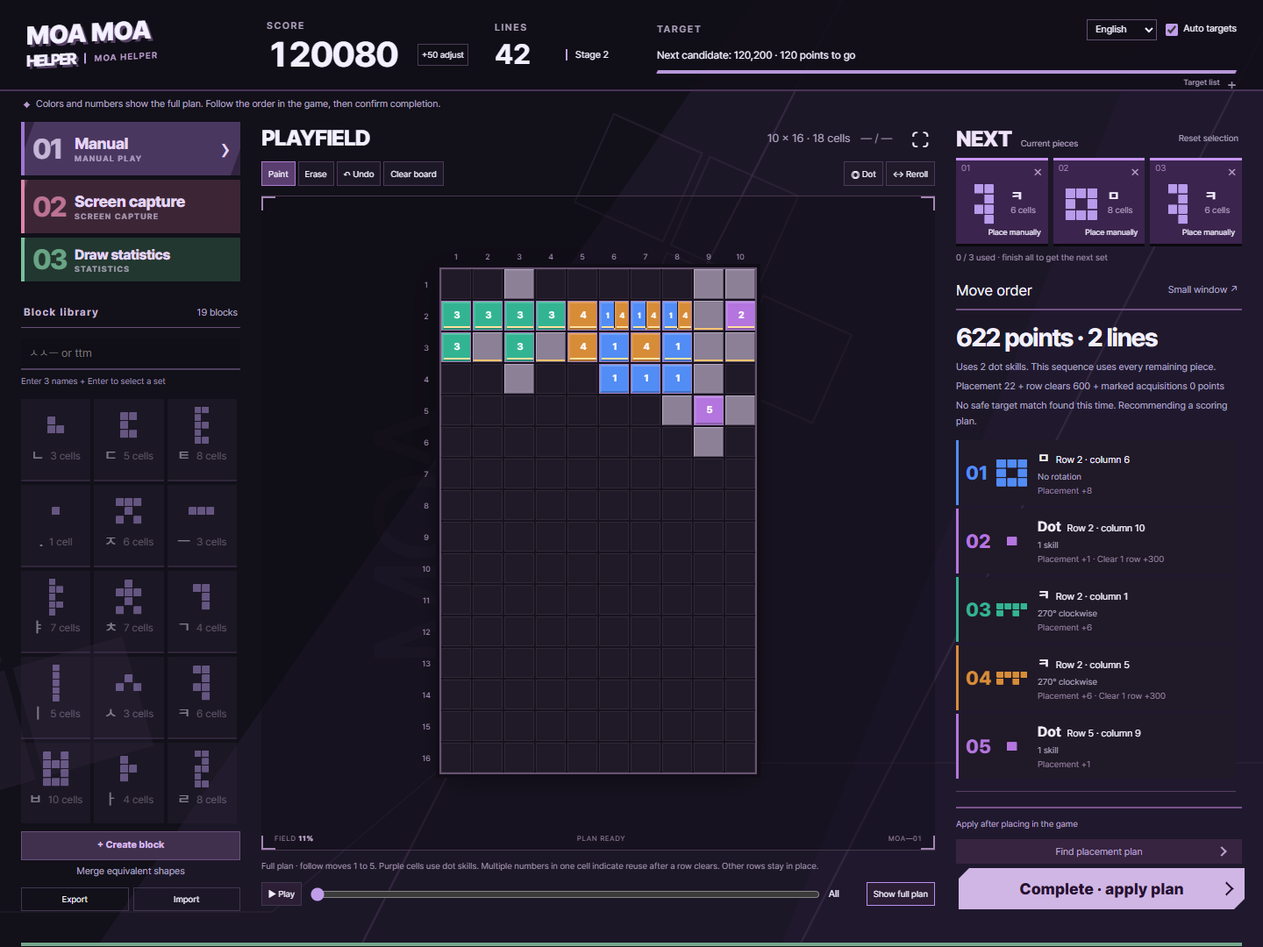
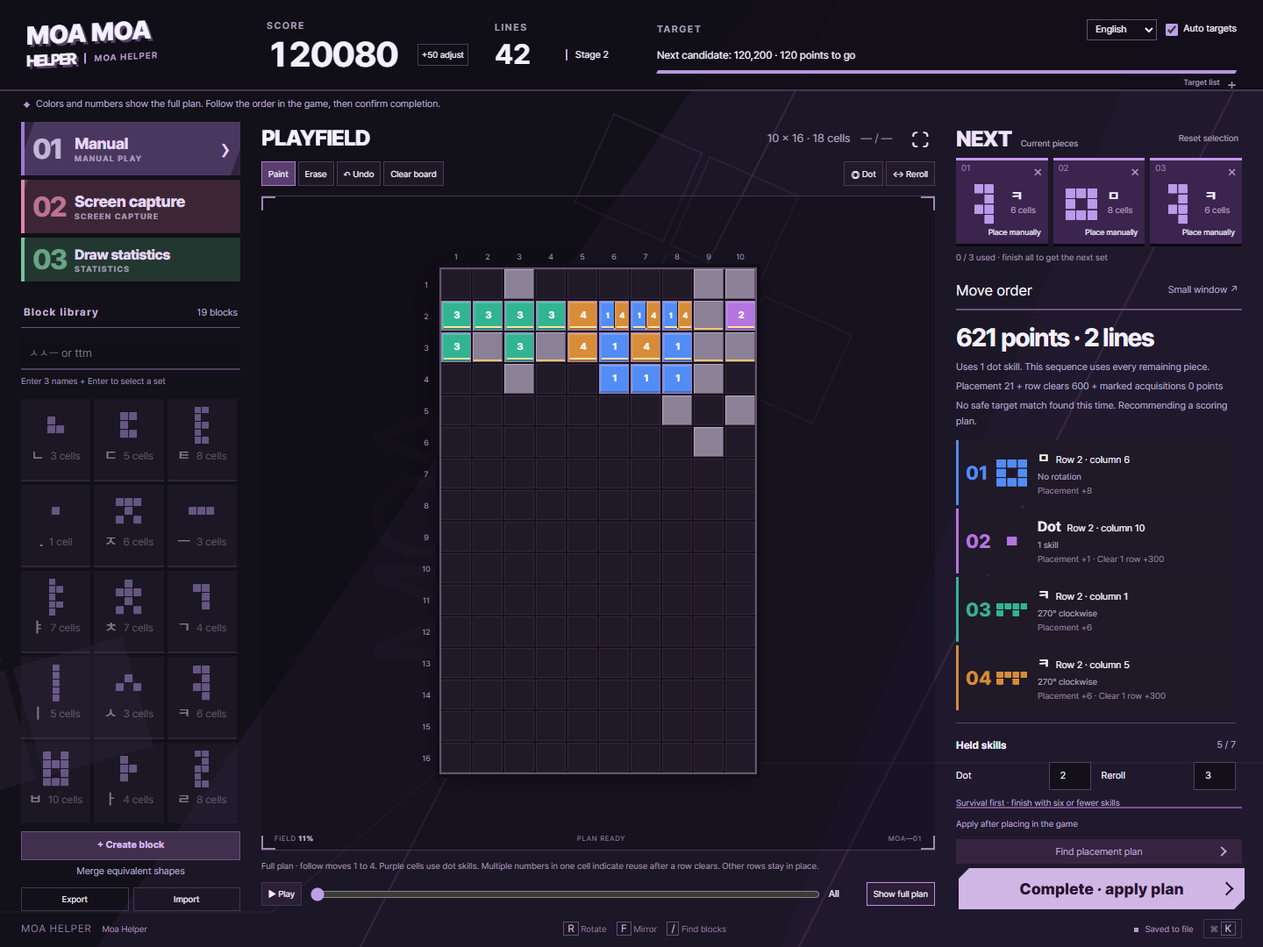
Separate statistics view and correct blue piece recognition

diff --git a/public/index.html b/public/index.html
@@ -24,7 +24,7 @@
 
 <p class="statistics-note error" hidden="" id="stage-server-warning" role="status">능력 등장 횟수와 통계·알고리즘 설정을 파일에 저장하려면 실행 중인 서버를 다시 시작한 뒤 새로고침하세요. 그전의 변경은 브라우저에 임시 보관합니다.</p>
 <div class="session-status"><i aria-hidden="true" class="status-light"></i><div aria-live="polite" class="message" id="message" role="status">저장한 블록을 불러오고 있습니다.</div></div>
-<div class="workbench"><div class="sidebar"><div class="mode-menu"><nav aria-label="입력 방식" class="mode-tabs"><button aria-label="수동" aria-pressed="true" class="selected" id="tab-manual"><span aria-hidden="true" class="menu-index">01</span><span class="menu-copy"><strong>수동</strong><small aria-hidden="true">MANUAL PLAY</small></span><span aria-hidden="true" class="menu-arrow">›</span></button><button aria-label="화면공유" aria-pressed="false" id="tab-capture"><span aria-hidden="true" class="menu-index">02</span><span class="menu-copy"><strong>화면공유</strong><small aria-hidden="true">SCREEN CAPTURE</small></span><span aria-hidden="true" class="menu-arrow">›</span></button></nav><button aria-label="출현 통계" id="open-statistics"><span aria-hidden="true" class="menu-index">03</span><span class="menu-copy"><strong>출현 통계</strong><small aria-hidden="true">STATISTICS</small></span><span aria-hidden="true" class="menu-arrow">›</span></button></div><section aria-labelledby="library-title" class="library"><div class="section-head"><h2 id="library-title">블록 보관함</h2><span id="block-count">0개</span></div><label class="search-label">블록 찾기<input aria-describedby="search-help" id="search-blocks" placeholder="ㅅㅅㅡ 또는 ttm" type="search"/><small id="search-help">이름 3개 + Enter로 한 번에 선택</small></label><div class="library-list" id="library-list"></div><div class="empty" id="library-empty"><div aria-hidden="true" class="empty-dots"><i></i><i></i><i></i><i></i></div><strong>한 번 만들면 계속 쓸 수 있어요.</strong><p>칸을 찍어 모양을 저장한 뒤<br/>목록에서 게임에 나온 블록을 고르세요.</p><button id="empty-create">첫 블록 만들기</button><button class="text-button" id="add-examples">기본 블록 모두 추가</button></div><button class="primary" id="new-block">+ 블록 만들기</button><button class="text-button" id="merge-blocks">회전·반전 중복 정리</button><div class="library-footer"><button id="export-blocks">내보내기</button><label class="file-button">불러오기<input accept=".json,application/json" id="import-blocks" type="file"/></label></div></section></div>
+<div class="workbench"><div class="sidebar"><div class="mode-menu"><nav aria-label="입력 방식" class="mode-tabs"><button aria-label="수동" aria-pressed="true" class="selected" id="tab-manual"><span aria-hidden="true" class="menu-index">01</span><span class="menu-copy"><strong>수동</strong><small aria-hidden="true">MANUAL PLAY</small></span><span aria-hidden="true" class="menu-arrow">›</span></button><button aria-label="화면공유" aria-pressed="false" id="tab-capture"><span aria-hidden="true" class="menu-index">02</span><span class="menu-copy"><strong>화면공유</strong><small aria-hidden="true">SCREEN CAPTURE</small></span><span aria-hidden="true" class="menu-arrow">›</span></button></nav><button aria-label="출현 통계" aria-pressed="false" aria-controls="statistics-screen" id="open-statistics"><span aria-hidden="true" class="menu-index">03</span><span class="menu-copy"><strong>출현 통계</strong><small aria-hidden="true">STATISTICS</small></span><span aria-hidden="true" class="menu-arrow">›</span></button></div><section aria-labelledby="library-title" class="library"><div class="section-head"><h2 id="library-title">블록 보관함</h2><span id="block-count">0개</span></div><label class="search-label">블록 찾기<input aria-describedby="search-help" id="search-blocks" placeholder="ㅅㅅㅡ 또는 ttm" type="search"/><small id="search-help">이름 3개 + Enter로 한 번에 선택</small></label><div class="library-list" id="library-list"></div><div class="empty" id="library-empty"><div aria-hidden="true" class="empty-dots"><i></i><i></i><i></i><i></i></div><strong>한 번 만들면 계속 쓸 수 있어요.</strong><p>칸을 찍어 모양을 저장한 뒤<br/>목록에서 게임에 나온 블록을 고르세요.</p><button id="empty-create">첫 블록 만들기</button><button class="text-button" id="add-examples">기본 블록 모두 추가</button></div><button class="primary" id="new-block">+ 블록 만들기</button><button class="text-button" id="merge-blocks">회전·반전 중복 정리</button><div class="library-footer"><button id="export-blocks">내보내기</button><label class="file-button">불러오기<input accept=".json,application/json" id="import-blocks" type="file"/></label></div></section></div>
 
 <div class="center-stage">
 <section aria-labelledby="capture-title" class="capture-panel" hidden="" id="capture-panel">
@@ -56,17 +56,17 @@
 </div>
 <div class="action-dock"><span class="dock-label" id="dock-label">세 조각을 선택하세요</span><button class="primary wide" disabled="" id="solve">배치 추천 찾기</button><button class="primary wide" hidden="" id="finish-target">목표 점수까지 반영</button><button class="primary wide" hidden="" id="complete-plan">완료</button></div>
 </aside>
-</div>
-<section aria-labelledby="statistics-title" class="draw-statistics">
-<details id="statistics-panel" open="">
-<summary><span aria-hidden="true" class="section-index">STATS</span><span id="statistics-title">블록 출현 통계</span><span id="statistics-total">일반 0회 · 바꾸기 0회 · 합계 0회</span></summary>
+<section aria-labelledby="statistics-title" class="draw-statistics" id="statistics-screen" hidden="">
+<div id="statistics-panel">
+<header class="statistics-heading"><div><span aria-hidden="true" class="section-index">STATS</span><h2 id="statistics-title" tabindex="-1">블록 출현 통계</h2></div><button id="statistics-back" type="button">← 플레이로 돌아가기</button></header><p id="statistics-total" role="status">일반 0회 · 바꾸기 0회 · 합계 0회</p>
 <p class="statistics-note" id="statistics-empty">선택한 범위에 아직 기록이 없습니다. 확인한 조각부터 자동 저장합니다.</p>
-<div class="statistics-tools"><label>확률 범위<select id="statistics-stage"><option value="all">전체 · 모든 단계 포함</option><option value="1">1단계 · 0~30줄</option><option value="2">2단계 · 31~60줄</option><option value="3">3단계 · 61~100줄</option><option value="4">4단계 · 101~150줄</option><option value="5">5단계 · 151줄 이상</option><option value="unknown">단계 미상 · 기존 기록</option></select></label><label>통계 검색<input autocomplete="off" id="statistics-search" placeholder="블록 이름 검색" type="search"/></label><label>정렬<select id="statistics-sort"><option value="total">전체 출현율 높은 순</option><option value="normal">일반 출현율 높은 순</option><option value="reroll">바꾸기 출현율 높은 순</option><option value="name">이름순</option></select></label><button id="statistics-reset" type="button">통계 전체 초기화</button></div><div aria-label="선택한 범위의 블록별 출현 비율" class="statistics-chart" id="statistics-chart" role="group"></div>
+<div class="statistics-tools"><label>확률 범위<select id="statistics-stage"><option value="all">전체 · 모든 단계 포함</option><option value="1">1단계 · 0~30줄</option><option value="2">2단계 · 31~60줄</option><option value="3">3단계 · 61~100줄</option><option value="4">4단계 · 101~150줄</option><option value="5">5단계 · 151줄 이상</option><option value="unknown">단계 미상 · 기존 기록</option></select></label><label>통계 검색<input autocomplete="off" id="statistics-search" placeholder="블록 이름 검색" type="search"/></label><label>정렬<select id="statistics-sort"><option value="total">전체 출현율 높은 순</option><option value="normal">일반 출현율 높은 순</option><option value="reroll">바꾸기 출현율 높은 순</option><option value="name">이름순</option></select></label><button id="statistics-undo" type="button" disabled="">↶ 되돌리기</button><button id="statistics-reset" type="button">통계 전체 초기화</button></div><div aria-label="선택한 범위의 블록별 출현 비율" class="statistics-chart" id="statistics-chart" role="group"></div>
 <p class="statistics-note" id="statistics-scope-note"></p>
 <p class="statistics-note" hidden="" id="statistics-no-match">일치하는 블록이 없습니다.</p>
 <table class="statistics-table"><caption class="sr-only">일반 배치 조각과 바꾸기 결과의 누적 횟수 및 관측 비율</caption><thead><tr><th scope="col">블록</th><th scope="col">일반</th><th scope="col">바꾸기</th><th scope="col">전체</th></tr></thead><tbody id="statistics-rows"></tbody></table>
-<details class="statistics-guide"><summary>통계 기록·수정 안내</summary><p class="statistics-note">화면에서 인식한 조각은 실제 배치를 반영한 뒤 한 번씩 기록합니다. 수동 선택은 첫 추천·직접 배치 때, 수동 바꾸기 입력은 결과 반영 때 기록합니다. 예시 화면은 제외하며, 되돌리면 통계도 복구됩니다.</p><p class="statistics-note">비율 = 해당 블록 횟수 ÷ 해당 열 전체 횟수. 누적 관측 비율이며 실제 확률을 보장하지 않습니다. 화면에서 이름을 구분할 수 없는 모양은 미분류로 집계합니다.</p><p class="statistics-note">일반·바꾸기 누적 횟수를 표에서 직접 고친 뒤 Enter를 누르거나 다른 칸으로 이동하면 저장합니다. 편집을 마치면 정렬이 갱신되며, 검색해도 비율은 선택한 범위의 전체 기록 기준입니다.</p><p class="statistics-note">단계별 횟수 수정은 전체 합계에도 반영됩니다. 전체 횟수는 단계별 합계보다 작게 줄일 수 없습니다. 기존 기록은 단계 미상으로 보존합니다.</p></details></details>
+<details class="statistics-guide"><summary>통계 기록·수정 안내</summary><p class="statistics-note">화면에서 인식한 조각은 실제 배치를 반영한 뒤 한 번씩 기록합니다. 수동 선택은 첫 추천·직접 배치 때, 수동 바꾸기 입력은 결과 반영 때 기록합니다. 예시 화면은 제외하며, 되돌리면 통계도 복구됩니다.</p><p class="statistics-note">비율 = 해당 블록 횟수 ÷ 해당 열 전체 횟수. 누적 관측 비율이며 실제 확률을 보장하지 않습니다. 화면에서 이름을 구분할 수 없는 모양은 미분류로 집계합니다.</p><p class="statistics-note">일반·바꾸기 누적 횟수를 표에서 직접 고친 뒤 Enter를 누르거나 다른 칸으로 이동하면 저장합니다. 편집을 마치면 정렬이 갱신되며, 검색해도 비율은 선택한 범위의 전체 기록 기준입니다.</p><p class="statistics-note">단계별 횟수 수정은 전체 합계에도 반영됩니다. 전체 횟수는 단계별 합계보다 작게 줄일 수 없습니다. 기존 기록은 단계 미상으로 보존합니다.</p></details></div>
 </section>
+</div>
 </main>
 <footer><span class="footer-brand">MOA HELPER <b>모아모아 도우미</b></span><span class="footer-shortcuts"><kbd>R</kbd> 회전 <kbd>F</kbd> 반전 <kbd>/</kbd> 블록 찾기</span><div class="footer-status"><span id="save-status" role="status">저장 파일 연결 중</span><button hidden="" id="retry-save">저장 재시도</button><button aria-label="빠른 이동" id="open-command" title="빠른 이동 Ctrl+K">⌘ <kbd>K</kbd></button></div></footer>
 <details class="project-notice"><summary>이벤트 · 프로젝트 안내</summary><p>메이플스토리 한글 모아모아 이벤트: 2026년 10월 1일 오전 10시 ~ 2026년 10월 14일 오후 11시 59분.</p><p>메이플스토리의 상표, 로고, 게임 이미지 등 관련 권리는 넥슨 및 각 권리자에게 있습니다. 이 프로젝트는 개인·학습용 비공식 도우미이며, 넥슨이 제작하거나 승인한 프로그램이 아닙니다.</p></details>

diff --git a/public/app.js b/public/app.js
@@ -21,7 +21,7 @@ let worker, searchTimer, generation = 0, result = null, preview = -1, busy = fal
 let targetPaused=false;
 let mode = 'paint', placement = null, hover = null, drag = null, dotDrag = null;
 let editorId = null, dots = new Set(), history = [], pipWindow = null;
-let inputMode='manual';
+let inputMode='manual',activeScreen='manual';
 let lastMessage=null,editorError=null;
 const colors = getComputedStyle(document.documentElement);
 const color = name => colors.getPropertyValue(`--color-${name}`).trim();
@@ -45,13 +45,32 @@ const capture=new ScreenCapture({
     remember();state=next;placement=null;hover=null;mode='paint';changed();solveBoard();
   }
 });
-const studio=new StudioUI({manual:()=>switchInput('manual'),capture:()=>switchInput('capture'),preview:index=>{if(!result?.moves.length)return;preview=index<0?-2:index;placement=null;hover=null;renderBoard();renderRecommendations();renderTray();renderPip();}});
-function switchInput(next){
-  if(!loaded)return;studio.stopPlayback();inputMode=next;const sharing=next==='capture';
-  document.body.classList.toggle('capture-mode',sharing);$('capture-panel').hidden=!sharing;
-  for(const id of ['manual','capture']){$(`tab-${id}`).classList.toggle('selected',id===next);$(`tab-${id}`).setAttribute('aria-pressed',String(id===next));}
-  capture.setActive(sharing);render();
+const studio=new StudioUI({manual:()=>switchInput('manual'),capture:()=>switchInput('capture'),statistics:()=>switchInput('statistics'),resume:()=>switchInput(inputMode),preview:index=>{if(!result?.moves.length)return;preview=index<0?-2:index;placement=null;hover=null;renderBoard();renderRecommendations();renderTray();renderPip();}});
+function switchInput(next,{navigate=true,focus=true}={}){
+  if(!loaded||!['manual','capture','statistics'].includes(next))return;
+  studio.stopPlayback();studio.clearMotion();
+  if(next==='statistics'&&document.body.classList.contains('focus-mode'))studio.focus();
+  const statistics=next==='statistics',changedScreen=activeScreen!==next;activeScreen=next;
+  if(!statistics){
+    inputMode=next;const sharing=next==='capture';
+    document.body.classList.toggle('capture-mode',sharing);$('capture-panel').hidden=!sharing;
+    capture.setActive(sharing);
+  }
+  document.body.classList.toggle('statistics-mode',statistics);
+  document.querySelector('.center-stage').hidden=statistics;document.querySelector('.recommendations').hidden=statistics;
+  document.querySelector('.library').hidden=statistics;$('statistics-screen').hidden=!statistics;
+  for(const [screen,id]of [['manual','tab-manual'],['capture','tab-capture'],['statistics','open-statistics']]){
+    const selected=screen===next,node=$(id);node.classList.toggle('selected',selected);node.setAttribute('aria-pressed',String(selected));
+    if(selected)node.setAttribute('aria-current','page');else node.removeAttribute('aria-current');
+  }
+  if(navigate&&location.hash!==`#${next}`)window.history.pushState(null,'',`#${next}`);
+  render();
+  if(changedScreen){window.scrollTo({top:0,behavior:'instant'});if(focus)(statistics?$('statistics-title'):$(next==='capture'?'tab-capture':'tab-manual')).focus({preventScroll:true});}
 }
+window.addEventListener('popstate',()=>switchInput(location.hash.slice(1)||'manual',{navigate:false}));
+$('statistics-back').onclick=()=>switchInput(inputMode);
+$('statistics-undo').onclick=()=>$('undo').click();
+document.querySelectorAll('.brand,.skip-link').forEach(link=>link.addEventListener('click',event=>{if(activeScreen==='statistics'){event.preventDefault();switchInput(inputMode);$('board-grid').querySelector('button')?.focus();}}));
 function message(text, error = false) { lastMessage={text,error};refreshMessage(); }
 function refreshMessage(){if(!lastMessage)return;$('message').textContent=t(typeof lastMessage.text==='function'?lastMessage.text():lastMessage.text);$('message').classList.toggle('error',lastMessage.error);}
 function el(tag, text, className) { const node=document.createElement(tag); if(text!==undefined)node.textContent=text; if(className)node.className=className; return node; }
@@ -349,7 +368,7 @@ function renderRecommendations() {
 }
 function render() {
   if(!state)return;
-  renderLibrary();renderTray();renderBoard();renderRecommendations();renderStatistics();renderTargetStatus();$('undo').disabled=!history.length;
+  renderLibrary();renderTray();renderBoard();renderRecommendations();renderStatistics();renderTargetStatus();$('undo').disabled=!history.length;$('statistics-undo').disabled=!history.length;
   if(document.activeElement!==$('cleared-lines'))$('cleared-lines').value=state.clearedLines??'';
   if(document.activeElement!==$('skill-spawn-remaining'))$('skill-spawn-remaining').value=state.skillSpawnRemaining??'';
   const stage=stageForLines(state.clearedLines);$('current-stage').textContent=stage===null?t('단계 미상'):t`${stage}단계`;
@@ -608,6 +627,7 @@ $('import-blocks').onchange=async event=>{
 };
 document.addEventListener('keydown',event=>{
   if(document.querySelector('dialog[open]')||event.target.matches('input,select,textarea')||event.ctrlKey||event.metaKey)return;
+  if(activeScreen==='statistics'){if(event.key==='Escape')switchInput(inputMode);return;}
   if(event.key==='Escape')setMode('paint');if(event.key.toLowerCase()==='r')transformPlacement();if(event.key.toLowerCase()==='f')transformPlacement(true);
 });
 window.addEventListener('beforeunload',event=>{if(revision!==savedRevision){event.preventDefault();event.returnValue='';}});
@@ -629,6 +649,7 @@ async function boot() {
     const upgradedStrategy=priorOptions.strategyVersion!==3||priorOptions.solverProfile!=='fast'||priorOptions.timeLimit!==850;
     state.options={solverProfile:'fast',rotate:priorOptions.rotate!==false,reflect:priorOptions.reflect!==false,gravity:false,timeLimit:850,strategyVersion:3};
     loaded=true;$('save-status').textContent=t('파일에 저장됨');render();document.querySelector('main').inert=false;$('new-block').disabled=false;
+    switchInput(['manual','capture','statistics'].includes(location.hash.slice(1))?location.hash.slice(1):'manual',{navigate:false,focus:false});
     $('stage-server-warning').hidden=stagePersistenceSupported;
     if(!stagePersistenceSupported){$('save-status').textContent=t('서버 재시작 필요');$('save-status').classList.add('error');if(draft)dirty();}
     if(correctedGravity){dirty();message(()=>(t('줄 제거 후 나머지 칸을 유지하도록 설정을 바로잡았습니다. 이미 어긋난 보드는 화면공유 탭에서 현재 게임 이미지를 붙여넣어 다시 맞춰 주세요.')));}

diff --git a/public/vision.js b/public/vision.js
@@ -125,7 +125,7 @@ export function readBoard(image,rect,cols=10,rows=16,sensitivity=1) {
   const confidence=confidences.reduce((a,b)=>a+b,0)/confidences.length;
   return {board,confidence,colors,uncertain:confidences.filter(v=>v<.6).length};
 }
-export function readPiece(image,rect) {
+export function readPiece(image,rect,{pitch:expectedPitch}={}) {
   if(!validRect(rect,image)) return {cells:[],status:'unknown',confidence:0,reason:'조각 영역을 다시 지정하세요.'};
   const w=Math.floor(rect.w),h=Math.floor(rect.h), mask=new Uint8Array(w*h);
   let white=0,teal=0;
@@ -151,22 +151,27 @@ export function readPiece(image,rect) {
     if(queue.length>=3) components.push({x:minX,y:minY,w:maxX-minX+1,h:maxY-minY+1,area:queue.length});
   }
   if(!components.length) return {cells:[],status:white/(w*h)>.6?'empty':'unknown',confidence:white/(w*h)>.6?.85:0};
-  const tiles=components.filter(c=>c.w>=3&&c.h>=3&&c.w/c.h>.65&&c.w/c.h<1.5&&c.w<w*.95&&c.h<h*.95);
+  const tiles=components.filter(c=>c.w>=2&&c.h>=2&&c.w/c.h>=.6&&c.w/c.h<=1.6&&c.w<w*.95&&c.h<h*.95);
   if(!tiles.length) return {cells:[],status:'unknown',confidence:0,reason:'블록 경계가 흐립니다. 조각 영역을 조정하거나 직접 수정하세요.'};
   const sizes=tiles.map(c=>(c.w+c.h)/2).sort((a,b)=>a-b),size=sizes[Math.floor(sizes.length/2)];
   const actual=tiles.filter(c=>Math.abs(c.w-size)<size*.45&&Math.abs(c.h-size)<size*.45);
   const minX=Math.min(...actual.map(c=>c.x)),minY=Math.min(...actual.map(c=>c.y));
-  let pitch=size+1;
+  // The saturated interior of a blue tile can be half its actual width. It is
+  // not the grid pitch. Use the board's scale, then refine from tile distances.
+  // Without that scale, only infer adjacency when the nearest gap is plausible;
+  // truly disconnected shapes must retain their empty cells.
+  const scaled=Number.isFinite(expectedPitch)&&expectedPitch>=3;
+  let pitch=scaled?expectedPitch:size+1;
   const gaps=[];
   for(const a of actual) for(const b of actual) {
     if(Math.abs(a.y-b.y)<size*.4&&b.x>a.x+size*.7) gaps.push(b.x-a.x);
     if(Math.abs(a.x-b.x)<size*.4&&b.y>a.y+size*.7) gaps.push(b.y-a.y);
   }
-  // A random shape can have gaps with no adjacent tiles. Do not compress a
-  // two-cell gap into one cell just because it is the shortest observed gap.
   if(gaps.length) {
-    const estimates=gaps.map(gap=>gap/Math.max(1,Math.round(gap/(size+1)))).sort((a,b)=>a-b);
-    pitch=estimates[Math.floor(estimates.length/2)];
+    const nearest=Math.min(...gaps);
+    if(!scaled&&nearest<=size*1.75+1)pitch=nearest;
+    const estimates=gaps.map(gap=>gap/Math.max(1,Math.round(gap/pitch))).filter(value=>!scaled||Math.abs(value-expectedPitch)<=expectedPitch*.2).sort((a,b)=>a-b);
+    if(estimates.length)pitch=estimates[Math.floor(estimates.length/2)];
   }
   const cells=actual.map(c=>[Math.round((c.x-minX)/pitch),Math.round((c.y-minY)/pitch)]);
   const unique=[...new Map(cells.map(c=>[c.join(','),c])).values()];
@@ -180,6 +185,9 @@ export function recognize(image,calibration,settings={}) {
   const {cols=10,rows=16,sensitivity=1}=settings;
   const result=readBoard(image,calibration.board,cols,rows,sensitivity);
   if(result.error) return result;
-  const pieces=calibration.slots.map((rect,id)=>({id,...readPiece(image,rect)}));
+  // Miniature cells are 8px apart for each 26px game-board cell. A manual
+  // region changes the crop only; it does not change this shared image scale.
+  const pitch=calibration.board.w/cols*8/26;
+  const pieces=calibration.slots.map((rect,id)=>({id,...readPiece(image,rect,{pitch})}));
   return {...result,pieces,signature:JSON.stringify([result.board,pieces.map(p=>[p.status,p.cells])]),safe:result.confidence>.85&&result.uncertain===0&&pieces.every(p=>p.status==='ready'||p.status==='used')};
 }

diff --git a/public/manual.css b/public/manual.css
@@ -34,3 +34,8 @@ dialog{position:fixed;inset:0;margin:auto;width:min(470px,calc(100% - 28px));max
 html:lang(en) .menu-copy strong{font-size:18px}html:lang(en) #open-statistics .menu-copy strong{font-size:16px}html:lang(en) .brand-top{font-size:29px;letter-spacing:-.5px}html:lang(en) .brand-bottom{font-size:18px}html:lang(en) .target-list-details>summary{width:auto;white-space:nowrap}html:lang(en) .board-toolbar{flex-wrap:wrap}html:lang(en) .capture-actions>.wide{white-space:normal}html:lang(en) .statistics-tools label,html:lang(en) .dimensions label{min-width:0}html:lang(en) .statistics-table td strong{white-space:nowrap}
 @media(max-width:1190px){html:lang(en) .menu-copy strong{font-size:16px}html:lang(en) #open-statistics .menu-copy strong{font-size:14px}}
 @media(max-width:680px){html:lang(en) .menu-copy strong{font-size:14px}html:lang(en) #open-statistics .menu-copy strong{font-size:12px}html:lang(en) .brand-top{font-size:25px}html:lang(en) .menu-copy small{font-size:7px}html:lang(en) .target-module>strong{white-space:normal}html:lang(en) .ability-tracking input{font-size:9px}html:lang(en) .tray-heading h3{flex-wrap:wrap}}
+
+/* Statistics is a separate destination; the playfield keeps its live state. */
+.statistics-mode .workbench{height:auto;min-height:calc(100dvh - 176px);align-items:start}.statistics-mode .sidebar{position:sticky;top:16px}.statistics-mode .center-stage,.statistics-mode .recommendations,.statistics-mode .library{display:none}.draw-statistics{grid-column:2/-1;margin:0;min-width:0}.statistics-heading{display:flex;align-items:center;justify-content:space-between;gap:20px;margin-bottom:12px}.statistics-heading>div{display:flex;align-items:center;gap:16px}.statistics-heading h2{font-size:25px;line-height:1.2;color:#c8e7d6}.statistics-heading button{min-height:38px;white-space:nowrap}#statistics-total{margin-bottom:22px}.statistics-mode .statistics-tools{grid-template-columns:repeat(3,minmax(0,1fr)) auto auto}#statistics-undo{white-space:nowrap}
+@media(max-width:980px){.statistics-mode .workbench{grid-template-columns:180px minmax(0,1fr)}.statistics-mode .statistics-tools{grid-template-columns:1fr 1fr}.statistics-heading{align-items:flex-start;flex-wrap:wrap}.statistics-heading>div{flex-wrap:wrap;gap:6px 12px}}
+@media(max-width:680px){.statistics-mode .sidebar{position:static}.statistics-mode .draw-statistics{margin:0;padding:20px 12px}.statistics-mode .workbench{min-height:0;align-items:stretch}.statistics-heading h2{font-size:22px}.statistics-heading{gap:12px}.statistics-mode .statistics-tools{grid-template-columns:1fr 1fr}.statistics-mode .statistics-tools>label:first-child{grid-column:1/-1}.statistics-mode .statistics-table{table-layout:fixed}.statistics-mode .statistics-table th:first-child{width:24%}.statistics-mode .statistics-table td{overflow-wrap:anywhere}}

diff --git a/public/studio.js b/public/studio.js
@@ -19,7 +19,7 @@ export class StudioUI {
     $('plan-scrubber').oninput=()=>{this.stopPlayback();actions.preview(+$('plan-scrubber').value-1);};
     $('open-command').onclick=()=>this.command();$('close-command').onclick=()=>$('command-dialog').close();
     $('command-dialog').addEventListener('click',event=>{if(event.target===$('command-dialog')){const r=event.target.getBoundingClientRect();if(event.clientX<r.left||event.clientX>r.right||event.clientY<r.top||event.clientY>r.bottom)event.target.close();}});
-    const commands=[[t('블록 이름 입력'),'/',()=>this.search()],[t('현재 공유 화면 인식'),'',()=>{if(!$('capture-read').disabled){actions.capture();$('capture-read').click();}}],[t('배치 추천 찾기'),'',()=>$('solve').click()],[t('보드 집중 모드'),'',()=>this.focus()],[t('출현 기록 보기'),'',()=>this.archive()],[t('마지막 동작 되돌리기'),'',()=>$('undo').click()]];
+    const commands=[[t('블록 이름 입력'),'/',()=>this.search()],[t('현재 공유 화면 인식'),'',()=>{if(!$('capture-read').disabled){actions.capture();$('capture-read').click();}}],[t('배치 추천 찾기'),'',()=>{actions.resume();$('solve').click();}],[t('보드 집중 모드'),'',()=>{actions.resume();this.focus();}],[t('출현 기록 보기'),'',()=>this.archive()],[t('마지막 동작 되돌리기'),'',()=>$('undo').click()]];
     this.commands=commands;
     for(const [label,key,run]of commands){const button=document.createElement('button');button.textContent=label;const hint=document.createElement('kbd');hint.textContent=key||'↵';button.append(hint);button.onclick=()=>{$('command-dialog').close();run();};$('command-actions').append(button);}
     document.addEventListener('keydown',event=>{
@@ -120,7 +120,7 @@ export class StudioUI {
     this.fit();const after=board.getBoundingClientRect();this.animate(board,[{transform:`translateX(${before.x-after.x}px) scaleX(${before.width/after.width})`,transformOrigin:'left top',opacity:.6},{transform:'none',opacity:1}],{duration:450});
   }
   search(){if(document.body.classList.contains('focus-mode'))this.focus();this.actions.manual();$('search-blocks').focus();$('search-blocks').select();}
-  archive(){$('statistics-panel').open=true;document.querySelector('.draw-statistics').scrollIntoView({behavior:this.reduced.matches?'instant':'smooth',block:'start'});}
+  archive(){this.actions.statistics();}
   command(){if(document.querySelector('dialog[open]'))return;$('command-dialog').showModal();$('command-actions').firstElementChild.focus();}
   statistics(rows,totals){
     const key=JSON.stringify([getLanguage(),totals.total,rows.map(r=>[r.blockId,r.name,r.total])]);if(key===this.chartKey)return;this.chartKey=key;

diff --git a/public/capture.js b/public/capture.js
@@ -8,6 +8,7 @@ export class ScreenCapture {
     this.callbacks=callbacks;this.frame=document.createElement('canvas');this.video=$('capture-video');
     this.video.muted=true;this.video.playsInline=true;this.token=0;this.imageRequest=0;this.active=false;this.hasFrame=false;
     this.canvas=$('capture-canvas');this.sensitivity=1;this.calibration=null;
+    document.querySelector('.capture-calibration').addEventListener('toggle',()=>this.draw());
     $('capture-start').onclick=()=>this.start();$('capture-stop').onclick=()=>this.stop();
     $('capture-sample').onclick=()=>this.sample();$('capture-read').onclick=()=>this.analyze();
     $('capture-locate').onclick=()=>{this.calibration=null;this.latest=null;this.resetPlan();this.draw();this.status(()=>(t('영역을 다시 찾도록 설정했습니다. 인식 버튼을 누르세요.')));};
@@ -37,7 +38,7 @@ export class ScreenCapture {
     this.canvas.onpointercancel=()=>{this.drag=null;this.draw();};
     document.addEventListener('keydown',e=>{if(e.key==='Escape'){this.target=null;this.drag=null;this.draw();}});
     document.addEventListener('paste',event=>{
-      if(!this.active||document.querySelector('dialog[open]'))return;
+      if(!this.active||document.body.classList.contains('statistics-mode')||document.querySelector('dialog[open]'))return;
       const data=event.clipboardData;
       const file=[...(data?.items||[])].filter(item=>item.kind==='file'&&item.type.startsWith('image/')).map(item=>item.getAsFile()).find(Boolean)
         ||[...(data?.files||[])].find(file=>file.type.startsWith('image/'));
@@ -196,7 +197,7 @@ export class ScreenCapture {
         }
       }
       ctx.textAlign='left';ctx.textBaseline='bottom';ctx.font=`bold ${fontSize}px sans-serif`;
-      [board,...slots].forEach((r,i)=>{
+      if(this.target||this.drag||document.querySelector('.capture-calibration').open)[board,...slots].forEach((r,i)=>{
         ctx.strokeStyle=color(i?'skill':'accent');ctx.strokeRect(r.x,r.y,r.w,r.h);
         const label=i?t`조각 ${i}`:`${cols} × ${rows}`,w=ctx.measureText(label).width+8;
         ctx.fillStyle=ctx.strokeStyle;ctx.fillRect(r.x,Math.max(0,r.y-fontSize-6),w,fontSize+6);

diff --git a/public/locales/en.js b/public/locales/en.js
@@ -2,6 +2,7 @@
 export default {
   "점 찍기": "Dot",
   "블록": "Block",
+  "← 플레이로 돌아가기": "← Back to play",
   "감지 {0}": "Detected {0}",
   "브라우저 임시 백업을 저장하지 못했습니다. 로컬 파일 저장 상태를 확인하세요.": "Could not save the browser recovery copy. Check the file save status.",
   "저장 중…": "Saving…",

diff --git a/docs/guide.md b/docs/guide.md
@@ -89,7 +89,7 @@ The search prioritizes completing the set and retaining useful space. It seeks a
 
 ## Draw statistics
 
-**Draw statistics** shows normal draws, rerolls, and combined observations for all stages or a selected stage.
+**Draw statistics** opens a separate screen with normal draws, rerolls, and combined observations for all stages or a selected stage. **Back to play** returns to the previous manual or capture screen, preserving the current plan and live sharing session. Browser Back and Forward also navigate between screens. Filters remain in place while switching screens.
 
 [View the statistics panel](images/statistics.png).
 
@@ -105,7 +105,7 @@ A normal draw keeps the stage at which it appeared, even if later placements cro
 
 Manually selected pieces are recorded together at the first recommendation or direct placement. Recognized pieces are recorded individually when committed. Manual rerolls are recorded when their results are confirmed; recognized rerolls are recorded when placed. Recommending again or reloading does not recount the same draw.
 
-Edit a count and press Enter or leave the field to save its cumulative value. Stage edits update the overall total. An overall total cannot be lower than the sum of its stage records. **Reset all statistics** clears all records regardless of search or stage filters; Undo can restore them.
+Edit a count and press Enter or leave the field to save its cumulative value. Stage edits update the overall total. An overall total cannot be lower than the sum of its stage records. **Reset all statistics** clears all records regardless of search or stage filters; the statistics screen's **Undo** button can restore them.
 
 At the start of a new game, set score and cleared lines to zero. Clearing the board or resetting selected pieces does not reset those values.
 
@@ -120,7 +120,7 @@ At the start of a new game, set score and cleared lines to zero. Clearing the bo
 | `/` | Focus block search |
 | `Ctrl+K` / `⌘K` | Open the command menu |
 | `R` / `F` | Rotate / reflect during manual placement |
-| `Esc` | Cancel placement or exit focus mode |
+| `Esc` | Cancel placement, exit focus mode, or return from statistics |
 | Arrow keys / Space | Navigate / toggle board and editor cells |
 
 The operating system's reduced-motion preference disables decorative transitions.

diff --git a/docs/architecture.md b/docs/architecture.md
@@ -41,7 +41,11 @@ Future-piece evaluation uses smoothed overall normal-draw observations. Stage-sp
 
 [`capture.js`](../public/capture.js) uses a native video element for playback and a transparent canvas for overlays. The recognition button copies one frame for [`vision.js`](../public/vision.js). Adjusting sensitivity or calibration does not trigger another recognition pass. [`capture-state.js`](../public/capture-state.js) reconciles observations with the existing slots.
 
+Miniature tile spacing is initialized from the game board's scale and refined from distances between detected tiles. A blue tile's saturated interior can be narrower than its full cell; using that interior as the spacing would insert false gaps in connected shapes. Genuine gaps remain empty. Calibration labels appear only while the region controls are open or a region is being dragged.
+
 [`studio.js`](../public/studio.js) manages selection motion, plan playback, focus mode, and keyboard navigation. Animations and timers run during interactions. Hidden documents and reduced-motion settings cancel decorative effects. This module does not add a capture-processing loop.
+
+Manual, capture, and statistics are separate views with hash history. Opening statistics hides the playfield without committing moves or stopping a live stream. Clipboard images are accepted only in the visible capture view.
 
 Layout is defined in [`index.html`](../public/index.html), [`manual.css`](../public/manual.css), and [`tokens.css`](../public/tokens.css). A local Pretendard variable font supplies the interface typography.
 

diff --git a/README.md b/README.md
@@ -42,7 +42,7 @@ Select a move, play the sequence, or scrub through individual steps to inspect a
 | Screen input | Reads a shared screen or pasted image only when recognition is requested. Video preview uses native browser playback. |
 | Skills | Places dot skills between ordinary pieces and asks for actual reroll results. A completed plan must leave fewer than seven held skills. |
 | Target scores | Searches a list of 16 targets from 100,000 upward. Falls back to a scoring plan when a safe target path is unavailable. |
-| Draw statistics | Tracks normal draws and rerolls across all stages and by stage. Supports direct count editing, filtering, and sorting. |
+| Draw statistics | A separate screen tracks normal draws and rerolls across all stages and by stage, with direct count editing, filtering, sorting, and undo. |
 | Block library | Includes a dot editor, import/export, and rotation/reflection duplicate detection. Duplicate records merge into the most-observed identity. |
 | Keyboard input | Accepts Hangul, English two-set keyboard input, and composed syllables: `ㄿㄱ` becomes `ㄹㅍㄱ`; `긔` becomes `ㄱㅡㅣ`. |
 | Always-on-top view | Shows the plan and completion control in a separate supported browser window. |

diff --git a/docs/testing.md b/docs/testing.md
@@ -18,6 +18,8 @@ On Linux, use `npx playwright install --with-deps chromium` if system libraries 
 
 Browser coverage includes manual placement, Hangul input and IME composition, inline statistics, screen sharing, clipboard images, stage records, worker deadlines, exact-score targets, playback, focus mode, and layouts from 320px to desktop. Picture-in-Picture is exercised when the browser exposes that API.
 
+Statistics navigation checks preserve the current plan, filters, and live video across view changes and browser history. Recognition regressions include the reported blue-bar pixels, three- and five-cell bars at several scales, and genuinely disconnected shapes.
+
 Localization checks cover Korean/English switching, reload and cross-tab persistence, dialog validation, keyboard commands, and English layouts. They verify that language changes preserve plans and observations and do not trigger another capture or recognition pass. Unit checks verify translated placeholders and literal player-defined names.
 
 Set `PLAYWRIGHT_MODULE_PATH` to reuse an installed Playwright module, or `BROWSER_EXECUTABLE` to use a separate Chromium executable. By default, tests use the Playwright dependency installed by `npm ci` and its browser.

diff --git a/THIRD_PARTY_NOTICES.md b/THIRD_PARTY_NOTICES.md
@@ -8,6 +8,8 @@ The interface uses [Pretendard 1.3.9](https://github.com/orioncactus/pretendard/
 
 MapleStory trademarks, logos, characters, game screens, and related works belong to Nexon and their respective rights holders. `public/sample.png` and `public/sample-game.png` are game reference images used for recognition demonstrations and regression checks. The project's MIT license does not grant rights to these game assets.
 
+`tests/fixtures/blue-bar-pixels.json` contains a small pixel sample from a reported game screenshot for the blue-block recognition regression. The same asset notice applies to this sample.
+
 This is an unofficial Hangul Moa Moa assistant for personal use and learning. It is not developed, approved, endorsed, or sponsored by Nexon and is not affiliated with MapleStory services.
 
 ## UI reference
